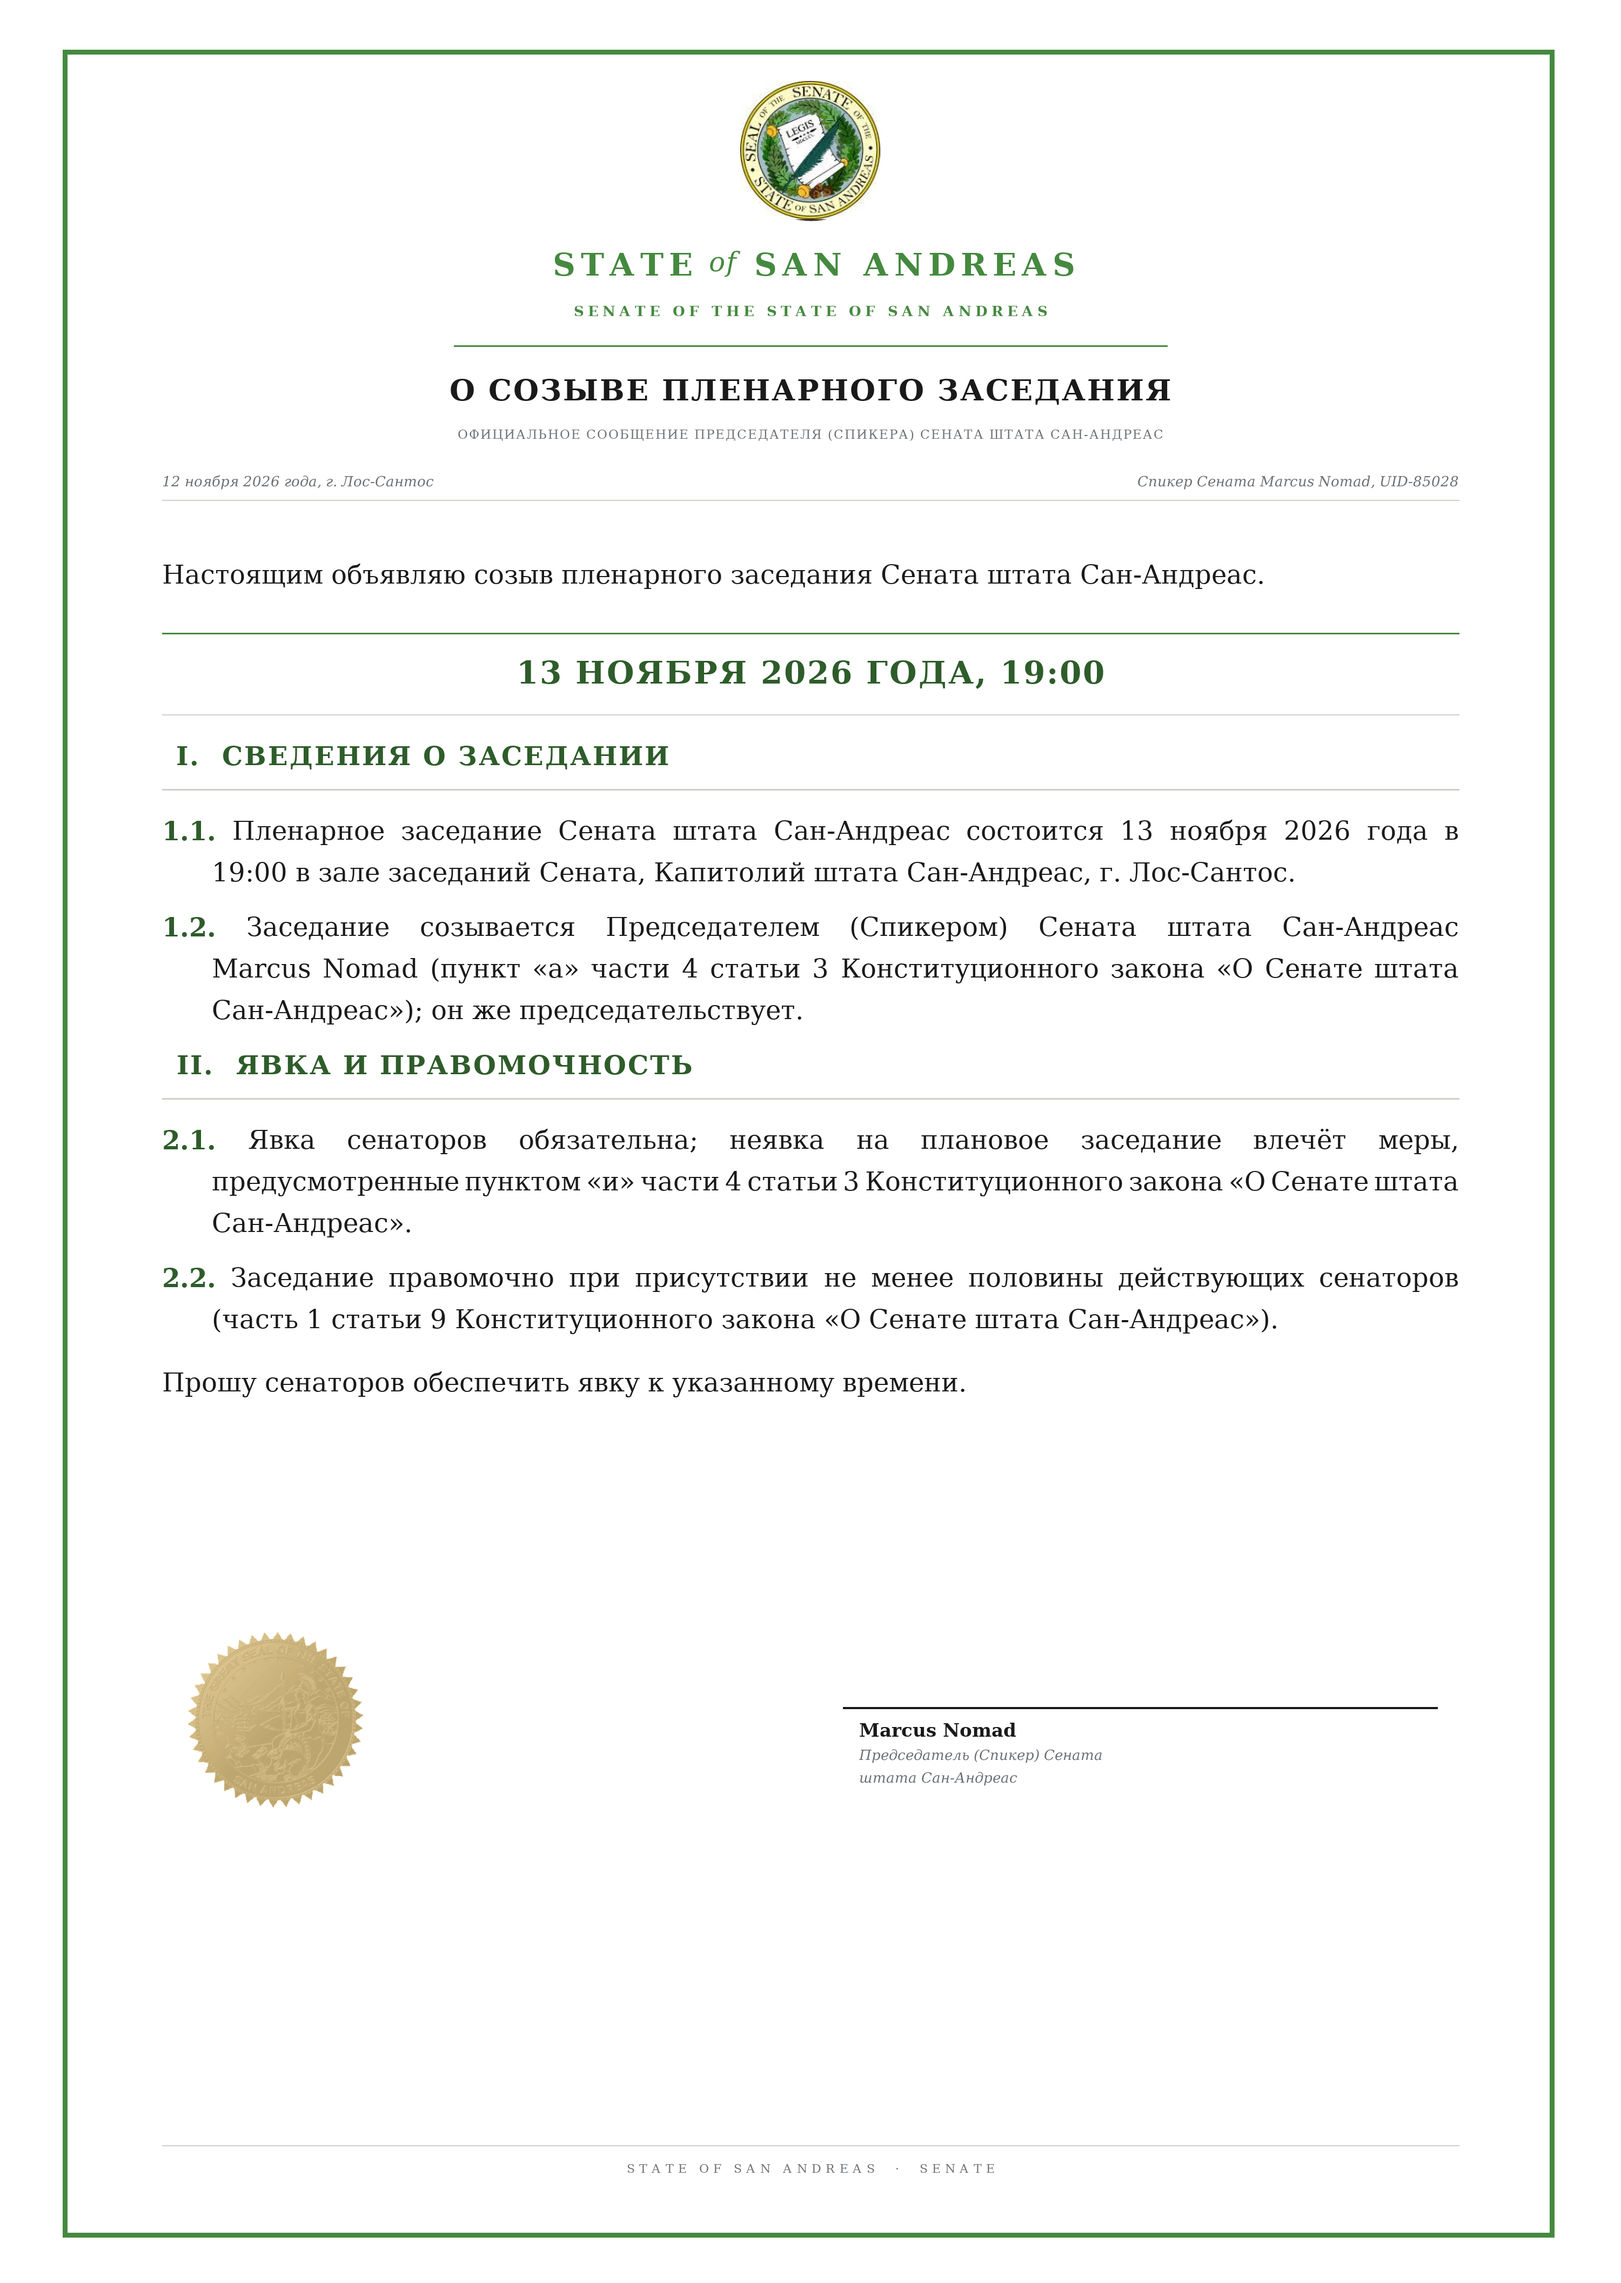
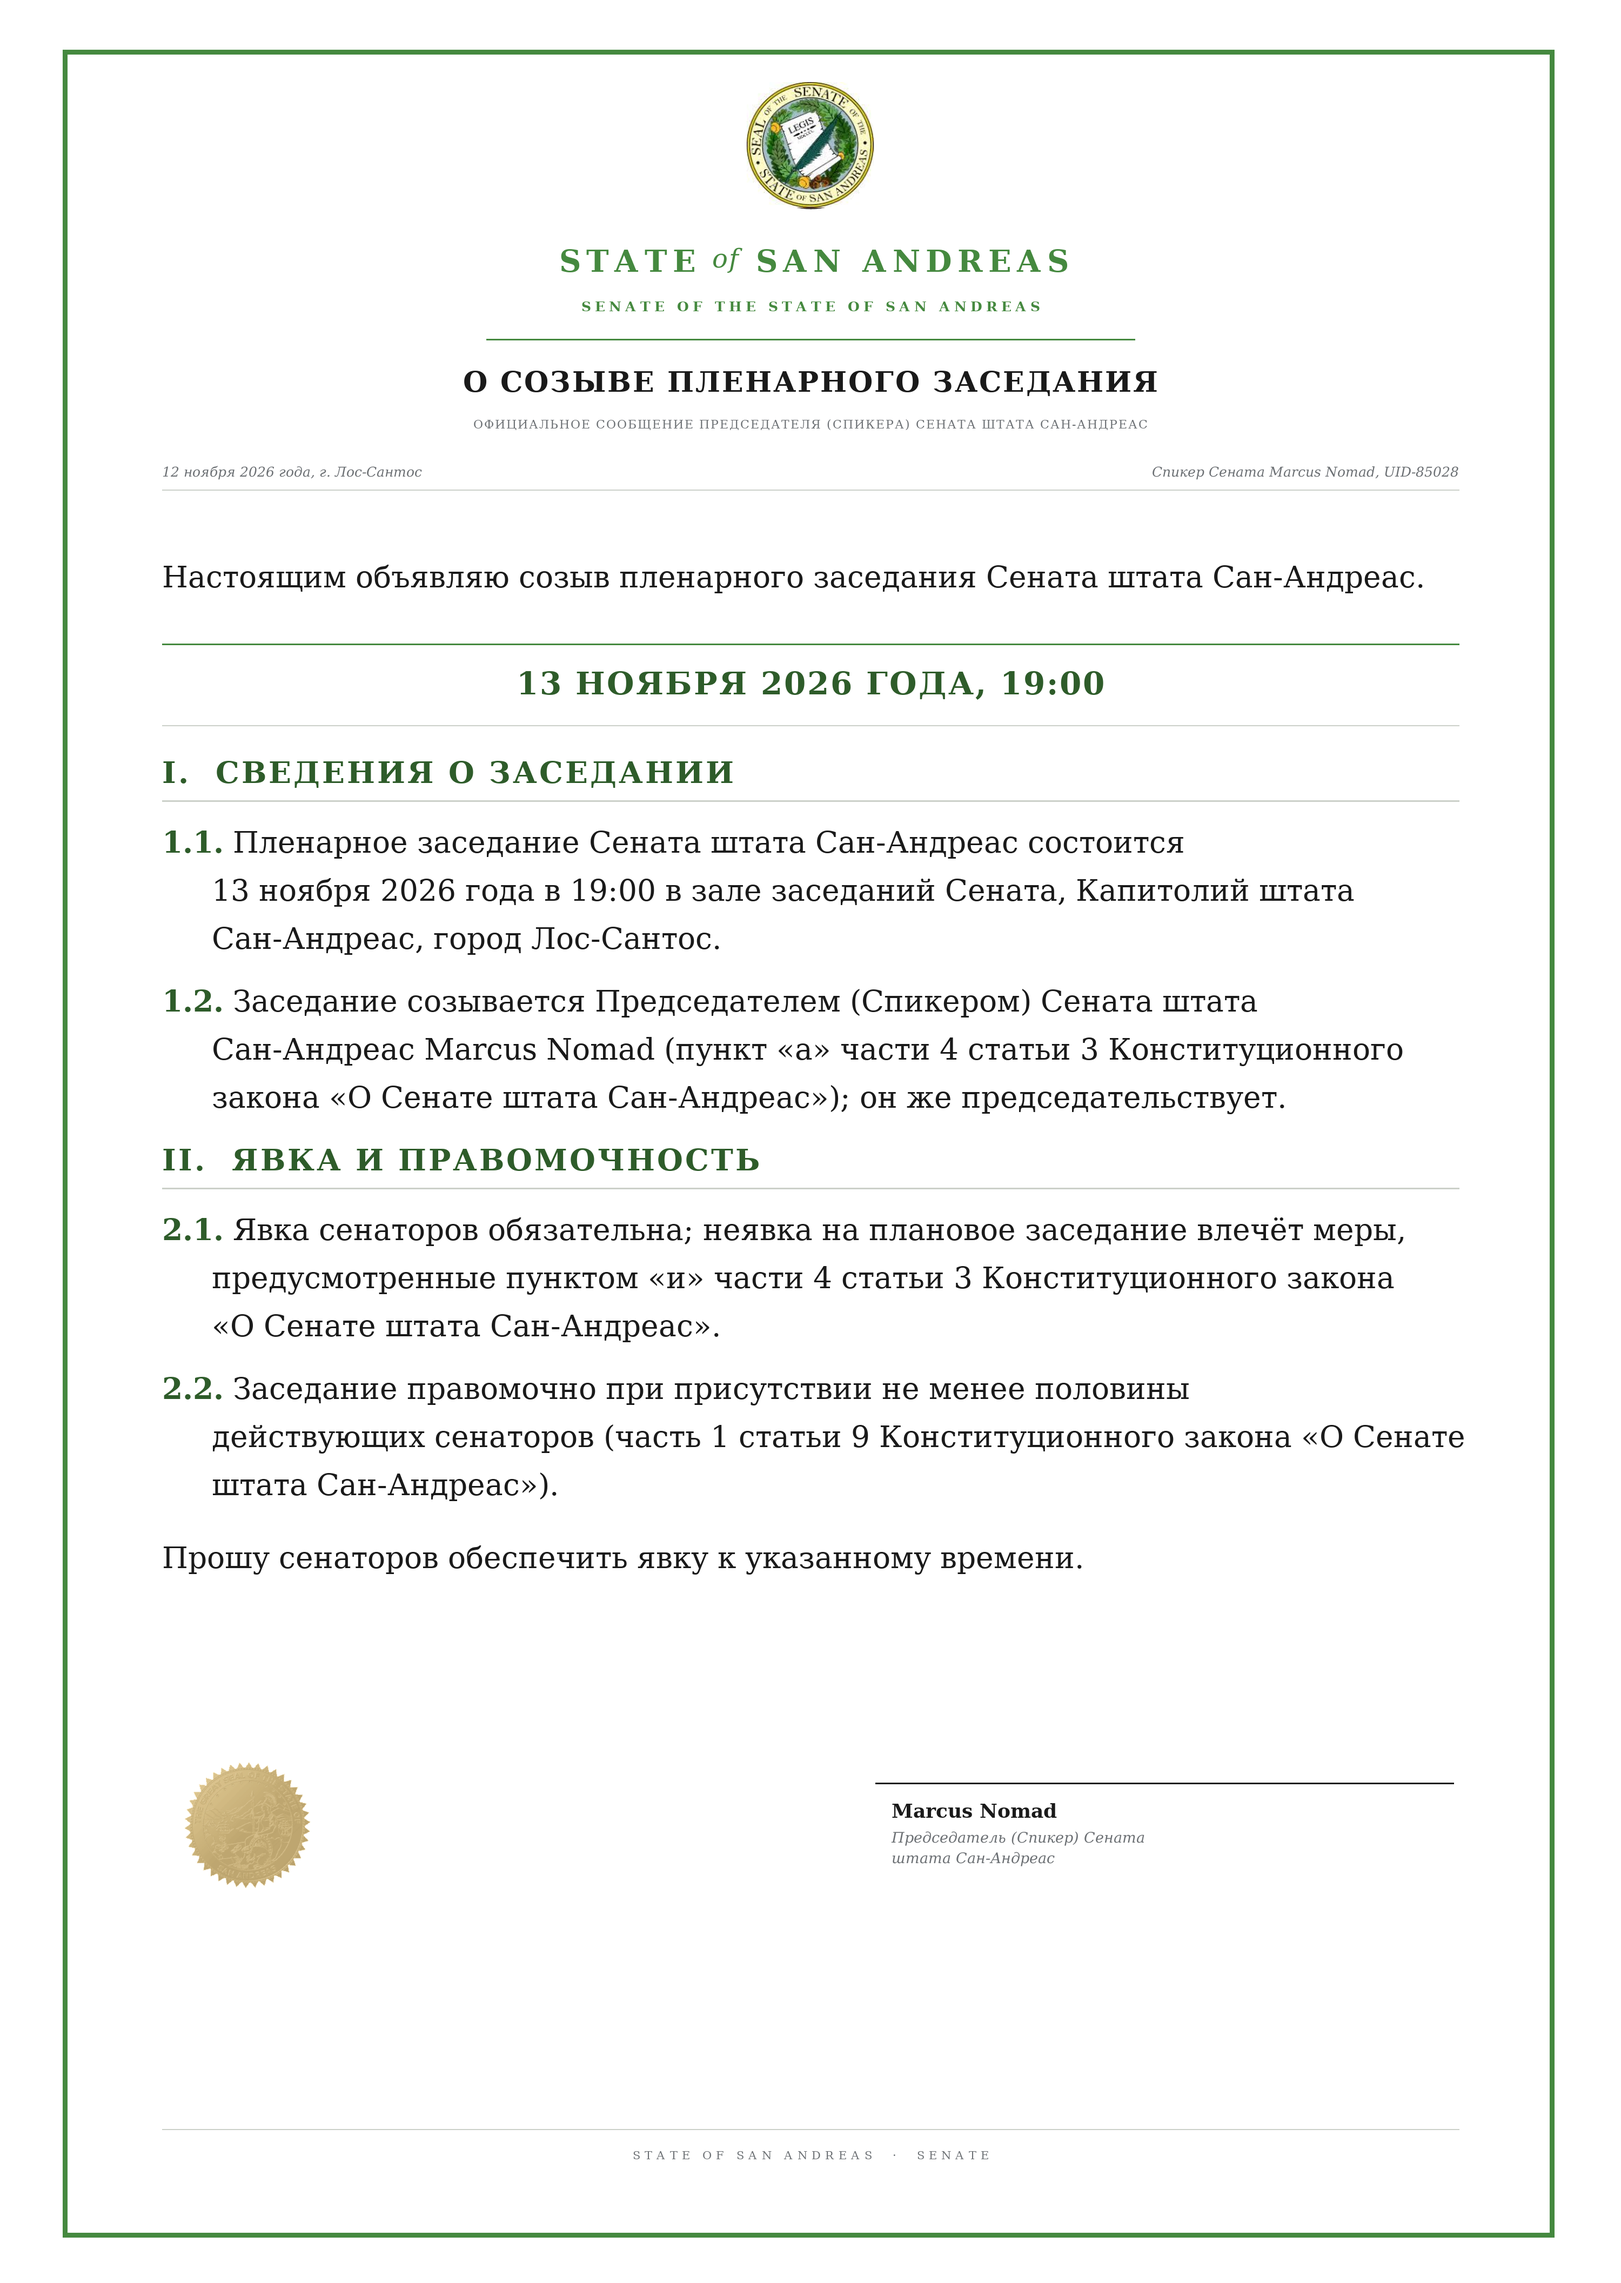
Сенат: созыв 13.11 - выравнивание по левому краю, естественные размеры подписи и печати

diff --git a/tools/make_senat_session_png.py b/tools/make_senat_session_png.py
@@ -16,8 +16,23 @@ from PIL import Image, ImageDraw                           # noqa: E402
 
 from make_senat_results_png import (                       # noqa: E402
     ASSETS, BODY_L, BODY_R, BODY_W, CENTER, FB, FI, FR, FRAME, GREEN, GREEN_D,
-    H, INK, MUTED, RULE, W, F, para, tracked, tw, wrap, heading,
+    H, INK, MUTED, RULE, W, F, para, tracked, tw,
 )
+
+TRACK = 4
+
+
+def heading(d, y, text, size=30, draw=True):
+    """Заголовок раздела: по левому краю, с линейкой под ним."""
+    font = F(FB, size)
+    if draw:
+        x = BODY_L
+        for ch in text:
+            d.text((x, y), ch, font=font, fill=GREEN_D)
+            x += tw(d, ch, font) + TRACK
+        d.line([(BODY_L, y + int(size * 1.55)), (BODY_R, y + int(size * 1.55))],
+               fill=RULE, width=3)
+    return y + int(size * 2.35)
 
 OUT_DIR = os.path.join(os.path.dirname(HERE), "Сенат", "Заседание 13.11.2026")
 OUT = os.path.join(OUT_DIR, "Созыв заседания Сената - 13.11.2026.png")
@@ -32,22 +47,22 @@ BAND = "13 НОЯБРЯ 2026 ГОДА, 19:00"
 SECTIONS = [
     ("I.  СВЕДЕНИЯ О ЗАСЕДАНИИ", [
         [("1.1.", "b", GREEN_D),
-         (" Пленарное заседание Сената штата Сан-Андреас состоится 13 ноября 2026 года "
-          "в 19:00 в зале заседаний Сената, Капитолий штата Сан-Андреас, г. Лос-Сантос.",
-          "r", INK)],
+         (" Пленарное заседание Сената штата Сан-Андреас состоится 13 ноября 2026 года "
+          "в 19:00 в зале заседаний Сената, Капитолий штата Сан-Андреас, город "
+          "Лос-Сантос.", "r", INK)],
         [("1.2.", "b", GREEN_D),
          (" Заседание созывается Председателем (Спикером) Сената штата Сан-Андреас "
-          "Marcus Nomad (пункт «а» части 4 статьи 3 Конституционного закона «О Сенате "
+          "Marcus Nomad (пункт «а» части 4 статьи 3 Конституционного закона «О Сенате "
           "штата Сан-Андреас»); он же председательствует.", "r", INK)],
     ]),
     ("II.  ЯВКА И ПРАВОМОЧНОСТЬ", [
         [("2.1.", "b", GREEN_D),
          (" Явка сенаторов обязательна; неявка на плановое заседание влечёт меры, "
           "предусмотренные пунктом «и» части 4 статьи 3 Конституционного закона "
-          "«О Сенате штата Сан-Андреас».", "r", INK)],
+          "«О Сенате штата Сан-Андреас».", "r", INK)],
         [("2.2.", "b", GREEN_D),
          (" Заседание правомочно при присутствии не менее половины действующих сенаторов "
-          "(часть 1 статьи 9 Конституционного закона «О Сенате штата Сан-Андреас»).",
+          "(часть 1 статьи 9 Конституционного закона «О Сенате штата Сан-Андреас»).",
           "r", INK)],
     ]),
 ]
@@ -72,7 +87,7 @@ def sections(d, y, size, draw=True):
     for title, items in SECTIONS:
         y = heading(d, y, title, size, draw)
         for runs in items:
-            y = para(d, y, runs, hang=92, size=size, lh=lh,
+            y = para(d, y, runs, hang=92, size=size, lh=lh, justify=False,
                      space_after=int(size * 0.50), draw=draw)
     return y
 
@@ -80,13 +95,13 @@ def sections(d, y, size, draw=True):
 def body(d, size, draw=True):
     y = 1035
     y = para(d, y, [(LEAD, "r", INK)], size=size, lh=int(size * 1.62),
-             space_after=int(size * 1.25), draw=draw)
+             justify=False, space_after=int(size * 1.25), draw=draw)
     y = band(d, y, size, draw)
     y += int(size * 1.0)
     y = sections(d, y, size, draw)
     y += int(size * 0.35)
     y = para(d, y, [("Прошу сенаторов обеспечить явку к указанному времени.", "r", INK)],
-             size=size, lh=int(size * 1.62), draw=draw)
+             size=size, lh=int(size * 1.62), justify=False, draw=draw)
     return y
 
 
@@ -96,47 +111,50 @@ def render(size):
     d.rectangle(FRAME, outline=GREEN, width=9)
 
     em = Image.open(os.path.join(ASSETS, "state_emblem.png")).convert("RGB")
-    em = em.resize((260, 260), Image.LANCZOS)
-    img.paste(em, (CENTER - 130, 150))
+    em = em.resize((236, 236), Image.LANCZOS)
+    img.paste(em, (CENTER - 118, 152))
 
-    base.title_mixed(d, 455, [("STATE", F(FB, 58), 10),
-                              ("of", F(FI, 50), 2),
-                              ("SAN ANDREAS", F(FB, 58), 10)])
-    tracked(d, 560, "SENATE OF THE STATE OF SAN ANDREAS", F(FB, 26), 7, GREEN)
-    d.line([(840, 640), (2160, 640)], fill=GREEN, width=3)
+    base.title_mixed(d, 450, [("STATE", F(FB, 56), 10),
+                              ("of", F(FI, 48), 2),
+                              ("SAN ANDREAS", F(FB, 56), 10)])
+    tracked(d, 552, "SENATE OF THE STATE OF SAN ANDREAS", F(FB, 25), 7, GREEN)
+    d.line([(900, 628), (2100, 628)], fill=GREEN, width=3)
 
-    tracked(d, 690, TITLE, F(FB, 54), 3, INK)
-    tracked(d, 790, SUBTITLE.upper(), F(FR, 23), 2, MUTED)
+    tracked(d, 676, TITLE, F(FB, 52), 3, INK)
+    tracked(d, 772, SUBTITLE.upper(), F(FR, 22), 2, MUTED)
 
-    d.text((BODY_L, 875), DATE_LINE, font=F(FI, 26), fill=MUTED)
-    d.text((BODY_R - tw(d, RIGHT_META, F(FI, 26)), 875), RIGHT_META,
-           font=F(FI, 26), fill=MUTED)
-    d.line([(BODY_L, 925), (BODY_R, 925)], fill=RULE, width=2)
+    d.text((BODY_L, 858), DATE_LINE, font=F(FI, 25), fill=MUTED)
+    d.text((BODY_R - tw(d, RIGHT_META, F(FI, 25)), 858), RIGHT_META,
+           font=F(FI, 25), fill=MUTED)
+    d.line([(BODY_L, 906), (BODY_R, 906)], fill=RULE, width=2)
 
     end = body(d, size)
 
-    sy = max(end + int(size * 1.6), 3010)
-    d.line([(1560, sy + 150), (2660, sy + 150)], fill=INK, width=4)
-    d.text((1590, sy + 172), "Marcus Nomad", font=F(FB, 34), fill=INK)
-    d.text((1590, sy + 222), "Председатель (Спикер) Сената", font=F(FI, 26), fill=MUTED)
-    d.text((1590, sy + 264), "штата Сан-Андреас", font=F(FI, 26), fill=MUTED)
+    # --- подпись и печать: общий нижний блок
+    sy = min(max(end + int(size * 3.0), 3300), 3420)
+    line_l, line_r = 1620, 2690
+    d.line([(line_l, sy), (line_r, sy)], fill=INK, width=3)
+    d.text((line_l + 30, sy + 30), "Marcus Nomad", font=F(FB, 36), fill=INK)
+    d.text((line_l + 30, sy + 84), "Председатель (Спикер) Сената",
+           font=F(FI, 27), fill=MUTED)
+    d.text((line_l + 30, sy + 122), "штата Сан-Андреас", font=F(FI, 27), fill=MUTED)
 
     seal = Image.open(os.path.join(ASSETS, "great_seal.png")).convert("RGBA")
-    seal = seal.resize((330, 330), Image.LANCZOS)
-    img.paste(seal, (BODY_L + 45, sy + 8), seal)
+    seal = seal.resize((236, 236), Image.LANCZOS)
+    img.paste(seal, (BODY_L + 40, sy - 40), seal)
 
-    d.line([(BODY_L, 3970), (BODY_R, 3970)], fill=RULE, width=2)
-    tracked(d, 4000, "STATE OF SAN ANDREAS  ·  SENATE", F(FR, 22), 8, MUTED)
+    d.line([(BODY_L, 3940), (BODY_R, 3940)], fill=RULE, width=2)
+    tracked(d, 3976, "STATE OF SAN ANDREAS  ·  SENATE", F(FR, 21), 8, MUTED)
     return img, end, sy
 
 
 def build(path):
     chosen = None
-    for size in range(48, 21, -1):
+    for size in range(64, 21, -1):
         scratch = Image.new("RGB", (W, H), "white")
         d0 = ImageDraw.Draw(scratch)
         end = body(d0, size, draw=False)
-        if end <= 3150:
+        if end <= 2960:
             chosen = size
             break
     chosen = chosen or 22
